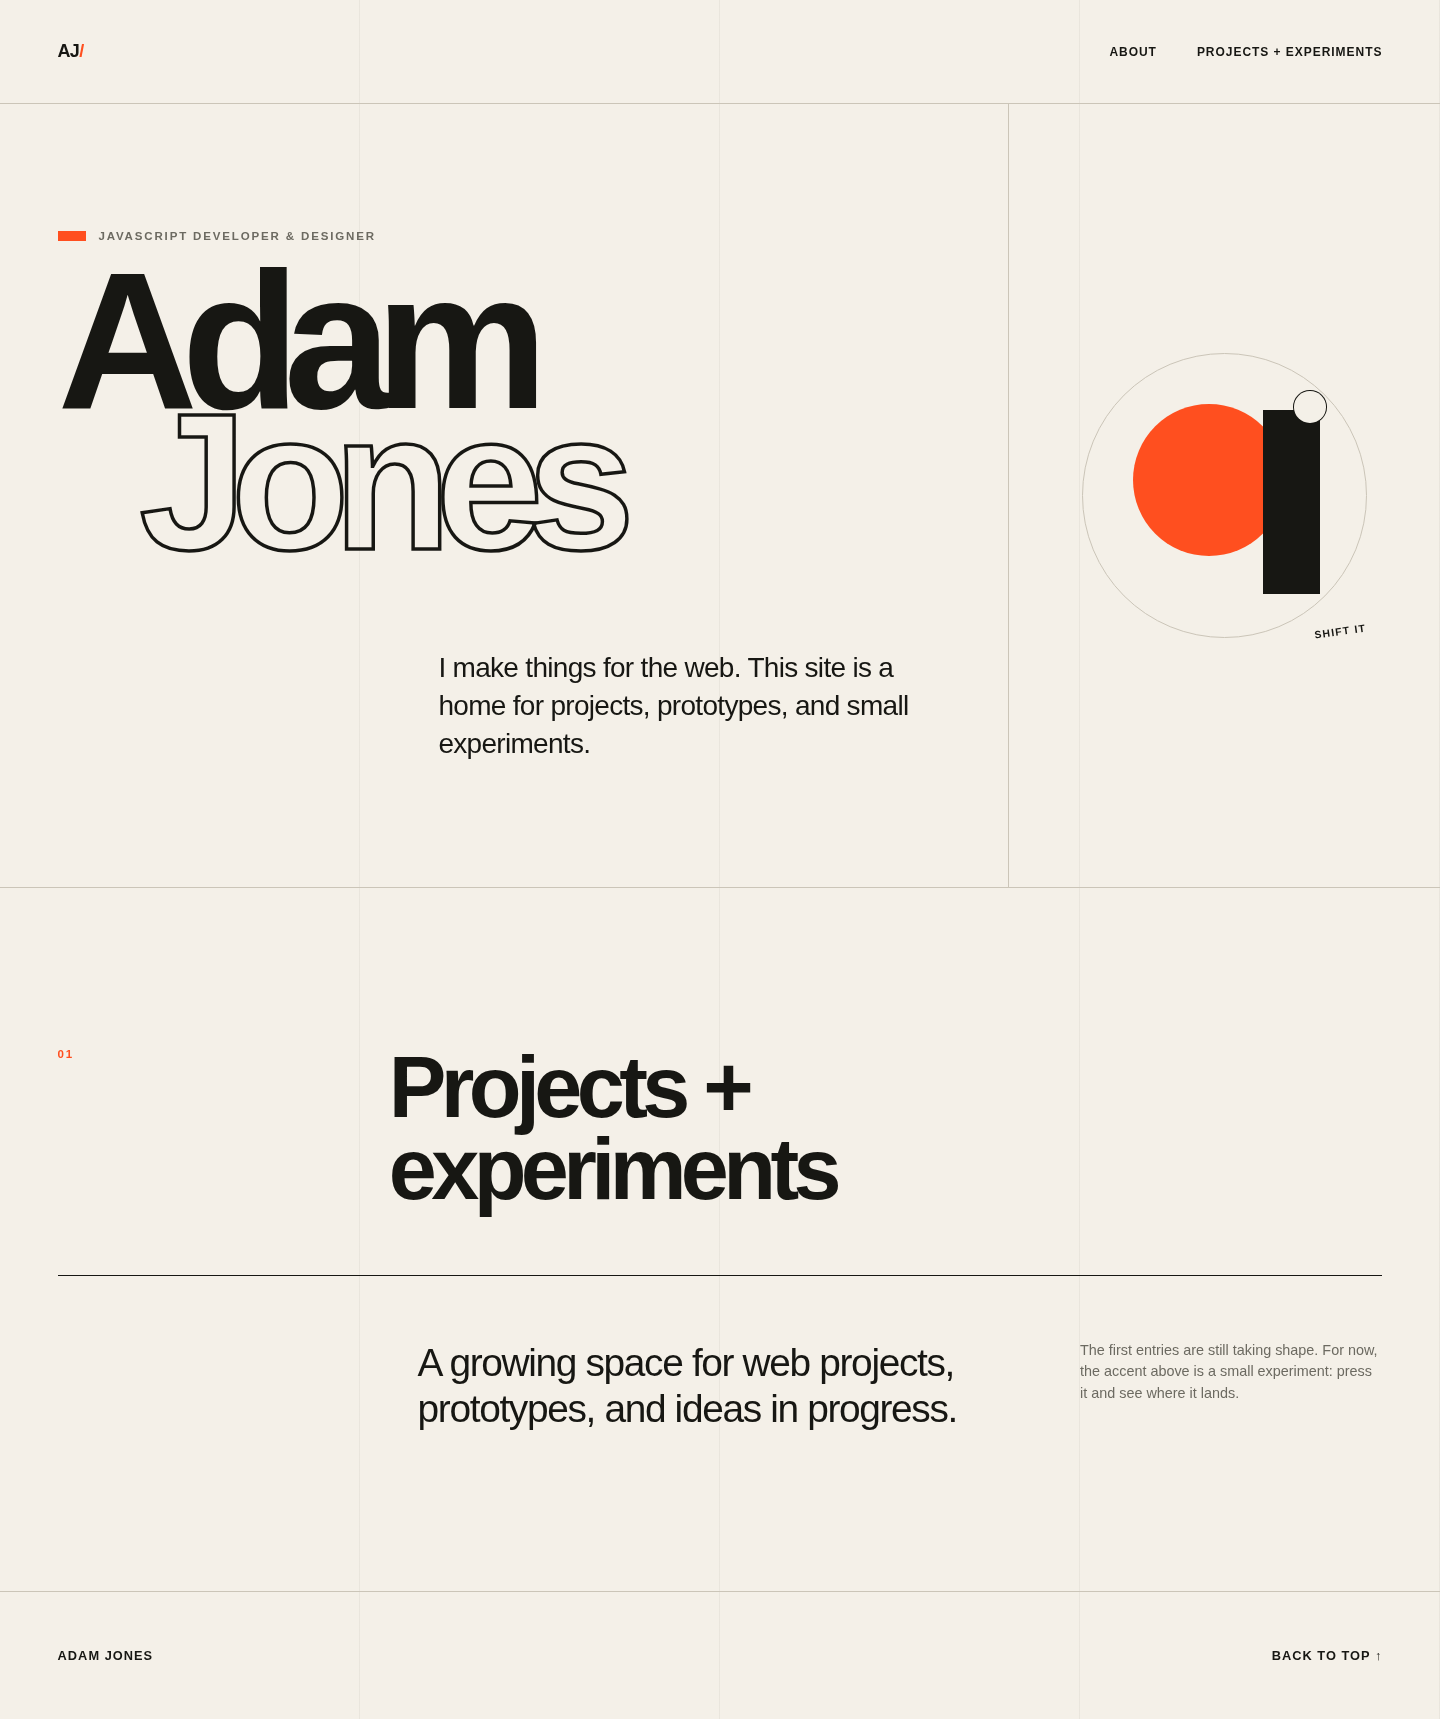
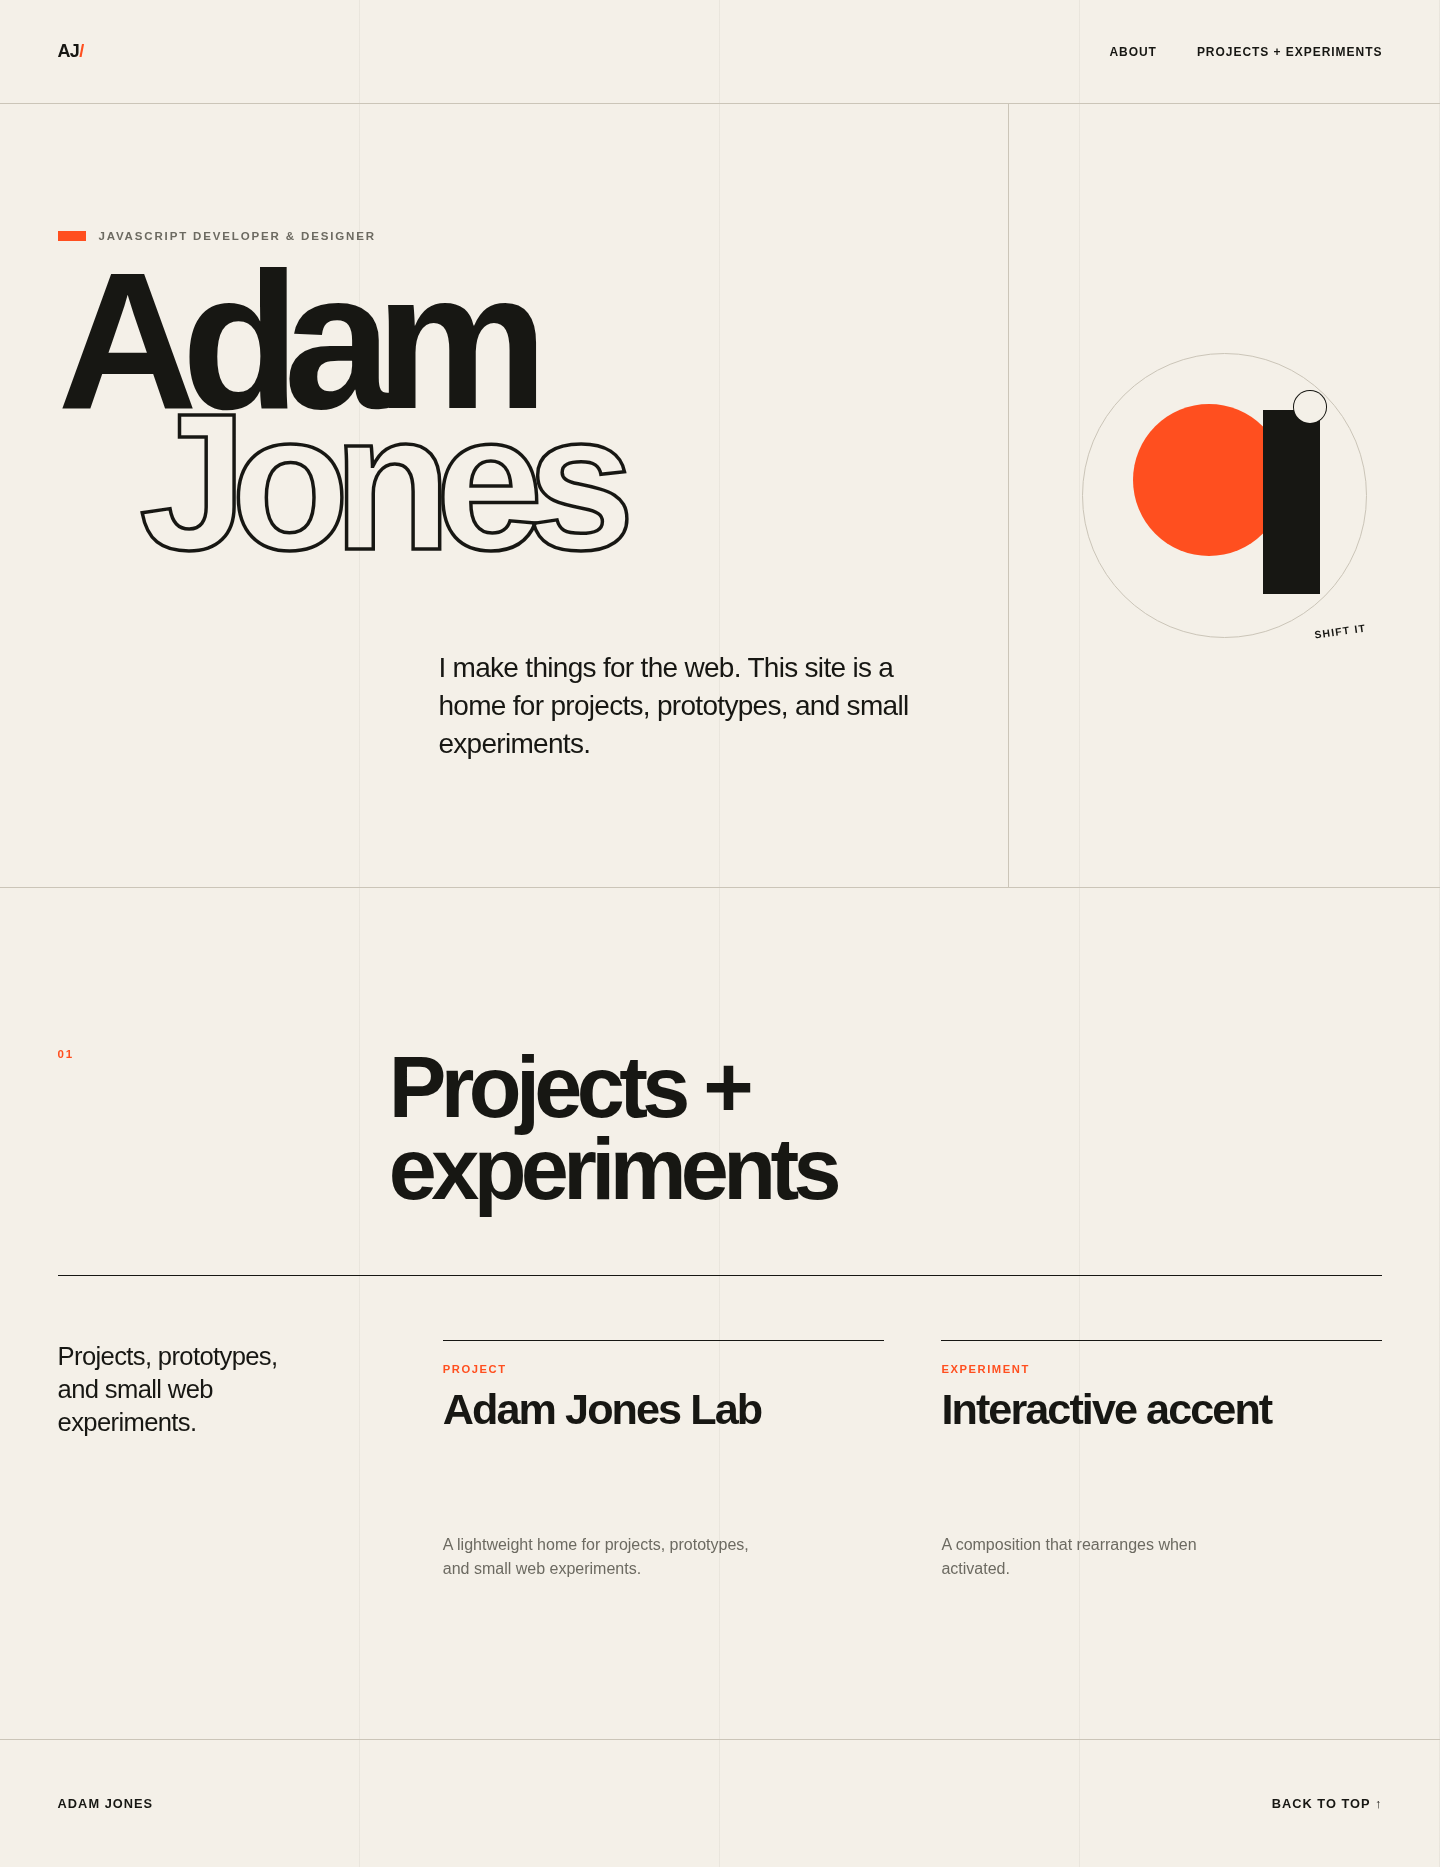
feat: complete F-002

diff --git a/tests/home.spec.js b/tests/home.spec.js
@@ -19,6 +19,26 @@ test('presents the supplied identity and introductory content', async ({ page })
   await expect(page.getByText(/home for projects/i).first()).toBeVisible();
 });
 
+test('renders the project and experiment catalogue as a labelled semantic list', async ({ page }) => {
+  await page.goto('/');
+
+  const catalogue = page.getByRole('list', { name: 'Project and experiment catalogue' });
+  const entries = catalogue.getByRole('listitem');
+
+  await expect(entries).toHaveCount(2);
+  await expect(entries.nth(0).getByText('Project', { exact: true })).toBeVisible();
+  await expect(entries.nth(0).getByRole('heading', { level: 3, name: 'Adam Jones Lab' })).toBeVisible();
+  await expect(
+    entries.nth(0).getByText('A lightweight home for projects, prototypes, and small web experiments.'),
+  ).toBeVisible();
+  await expect(entries.nth(1).getByText('Experiment', { exact: true })).toBeVisible();
+  await expect(entries.nth(1).getByRole('heading', { level: 3, name: 'Interactive accent' })).toBeVisible();
+  await expect(entries.nth(1).getByText('A composition that rearranges when activated.')).toBeVisible();
+  await expect(catalogue.getByRole('article')).toHaveCount(2);
+  await expect(catalogue.getByRole('link')).toHaveCount(0);
+  await expect(page.getByText(/first entries are still taking shape/i)).toHaveCount(0);
+});
+
 test('supports pointer use, visible keyboard navigation, and native button activation', async ({ page }) => {
   await page.goto('/');
 
@@ -66,7 +86,19 @@ test.describe('responsive layout', () => {
       await page.goto('/');
 
       await expect(page.locator('main')).toBeVisible();
+      await expect(page.locator('.catalogue-item')).toHaveCount(2);
       await expectNoHorizontalOverflow(page);
+
+      if (viewport.name === 'mobile') {
+        const positions = await page.locator('.catalogue-item').evaluateAll((items) =>
+          items.map((item) => {
+            const bounds = item.getBoundingClientRect();
+            return { top: bounds.top, bottom: bounds.bottom };
+          }),
+        );
+
+        expect(positions[1].top).toBeGreaterThanOrEqual(positions[0].bottom);
+      }
     });
   }
 });

diff --git a/src/styles.css b/src/styles.css
@@ -312,25 +312,62 @@ h2 {
 
 .work-grid {
   display: grid;
-  grid-template-columns: minmax(4rem, 1fr) 2fr 1fr;
-  gap: clamp(1.5rem, 4vw, 4rem);
+  grid-template-columns: minmax(8rem, 1fr) 3fr;
+  gap: clamp(2rem, 5vw, 5rem);
   padding-top: clamp(2rem, 5vw, 4rem);
 }
 
 .work-lede {
-  grid-column: 2;
-  max-width: 25ch;
+  max-width: 18ch;
   margin: 0;
-  font-size: clamp(1.4rem, 2.7vw, 2.5rem);
-  letter-spacing: -0.035em;
-  line-height: 1.2;
+  font-size: clamp(1.15rem, 1.8vw, 1.6rem);
+  letter-spacing: -0.025em;
+  line-height: 1.3;
 }
 
-.work-note {
-  grid-column: 3;
+.catalogue {
+  display: grid;
+  min-width: 0;
+  grid-template-columns: repeat(2, minmax(0, 1fr));
+  gap: clamp(1.5rem, 4vw, 4rem);
   margin: 0;
+  padding: 0;
+  list-style: none;
+}
+
+.catalogue-item {
+  min-width: 0;
+  border-top: 1px solid var(--ink);
+}
+
+.catalogue-entry {
+  display: flex;
+  min-height: 15rem;
+  flex-direction: column;
+  padding-top: 1.25rem;
+}
+
+.catalogue-type {
+  margin: 0;
+  color: var(--accent);
+  font-size: 0.7rem;
+  font-weight: 800;
+  letter-spacing: 0.14em;
+  text-transform: uppercase;
+}
+
+.catalogue h3 {
+  margin: 0.65rem 0 2rem;
+  overflow-wrap: anywhere;
+  font-size: clamp(1.75rem, 3vw, 3rem);
+  letter-spacing: -0.045em;
+  line-height: 1;
+}
+
+.catalogue-summary {
+  max-width: 35ch;
+  margin: auto 0 0;
   color: var(--muted);
-  font-size: 0.9rem;
 }
 
 .site-footer {
@@ -392,17 +429,22 @@ h2 {
     display: block;
   }
 
-  .work-grid {
+  .work-grid,
+  .catalogue {
     grid-template-columns: 1fr;
   }
 
-  .work-lede,
-  .work-note {
-    grid-column: 1;
+  .work-lede {
+    max-width: 24ch;
   }
 
-  .work-note {
-    max-width: 30rem;
+  .catalogue-entry {
+    min-height: 0;
+    padding-bottom: 2rem;
+  }
+
+  .catalogue-summary {
+    margin-top: 0;
   }
 }
 

diff --git a/src/main.js b/src/main.js
@@ -1,4 +1,34 @@
 import './styles.css';
+import { catalogue } from './catalogue.js';
+
+const catalogueMount = document.querySelector('.catalogue');
+
+if (catalogueMount) {
+  const entries = document.createDocumentFragment();
+
+  for (const entry of catalogue) {
+    const item = document.createElement('li');
+    const article = document.createElement('article');
+    const type = document.createElement('p');
+    const title = document.createElement('h3');
+    const summary = document.createElement('p');
+
+    item.className = 'catalogue-item';
+    article.className = 'catalogue-entry';
+    type.className = 'catalogue-type';
+    summary.className = 'catalogue-summary';
+
+    type.textContent = entry.type;
+    title.textContent = entry.title;
+    summary.textContent = entry.summary;
+
+    article.append(type, title, summary);
+    item.append(article);
+    entries.append(item);
+  }
+
+  catalogueMount.append(entries);
+}
 
 const accentButton = document.querySelector('.accent-button');
 const stateCount = 3;

diff --git a/index.html b/index.html
@@ -51,11 +51,8 @@
           <h2 id="work-title">Projects + experiments</h2>
         </header>
         <div class="work-grid">
-          <p class="work-lede">A growing space for web projects, prototypes, and ideas in progress.</p>
-          <p class="work-note">
-            The first entries are still taking shape. For now, the accent above is a small experiment:
-            press it and see where it lands.
-          </p>
+          <p class="work-lede">Projects, prototypes, and small web experiments.</p>
+          <ul class="catalogue" aria-label="Project and experiment catalogue"></ul>
         </div>
       </section>
     </main>

diff --git a/src/catalogue.js b/src/catalogue.js
@@ -1,0 +1,12 @@
+export const catalogue = [
+  {
+    type: 'Project',
+    title: 'Adam Jones Lab',
+    summary: 'A lightweight home for projects, prototypes, and small web experiments.',
+  },
+  {
+    type: 'Experiment',
+    title: 'Interactive accent',
+    summary: 'A composition that rearranges when activated.',
+  },
+];

diff --git a/README.md b/README.md
@@ -28,7 +28,7 @@ npm run test:browser
 npm run cloudflare:dry-run
 ```
 
-Generated production files are written to `dist/`. Browser tests cover supplied content, keyboard interaction, reduced motion, and horizontal overflow at desktop and mobile sizes.
+Generated production files are written to `dist/`. Browser tests cover supplied content, catalogue semantics, keyboard interaction, reduced motion, responsive stacking, and horizontal overflow at desktop and mobile sizes.
 
 ## Cloudflare static assets
 
@@ -42,4 +42,4 @@ Publishing, custom-domain setup, and DNS changes require Adam's explicit approva
 
 ## Review images
 
-Desktop and mobile captures from the pilot implementation are kept in `docs/review/` when local Chromium is available.
+Desktop and mobile captures of the current implementation are kept in `docs/review/` when local Chromium is available.
